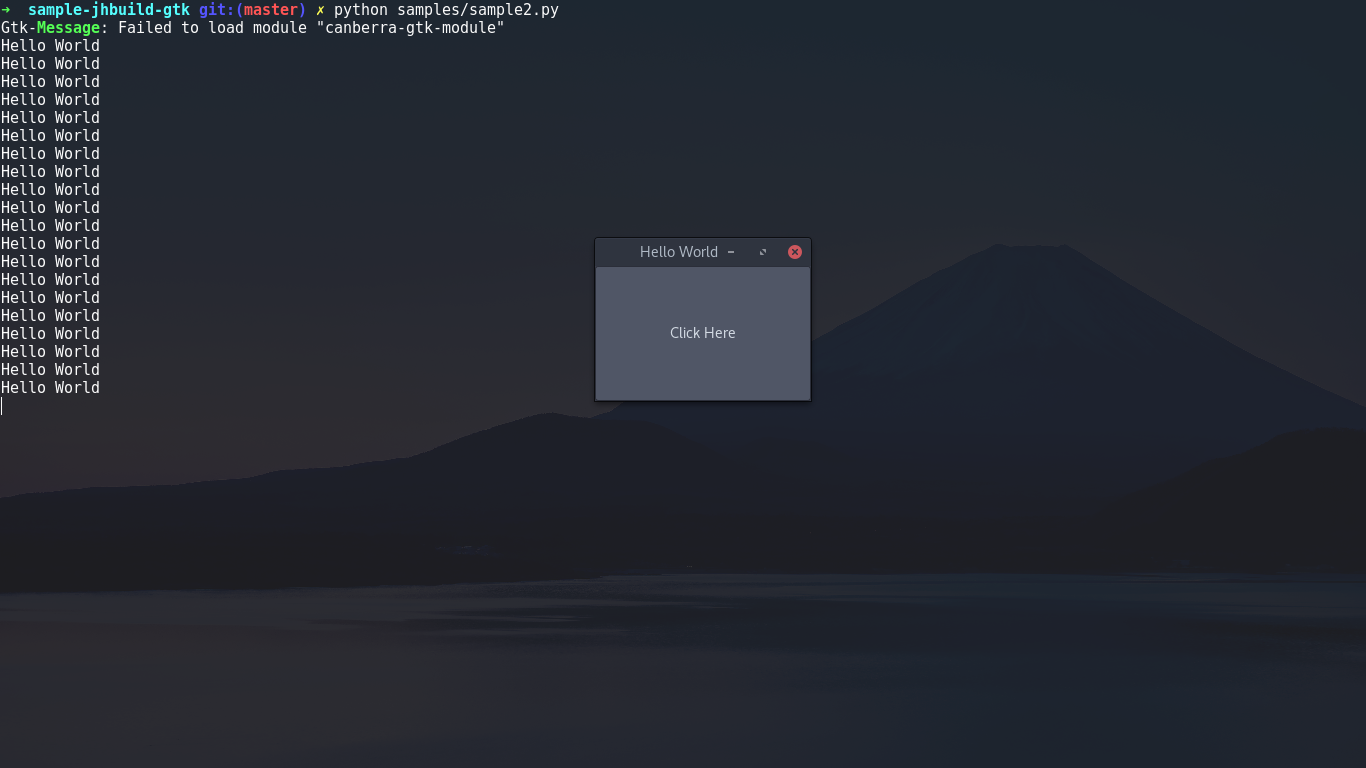
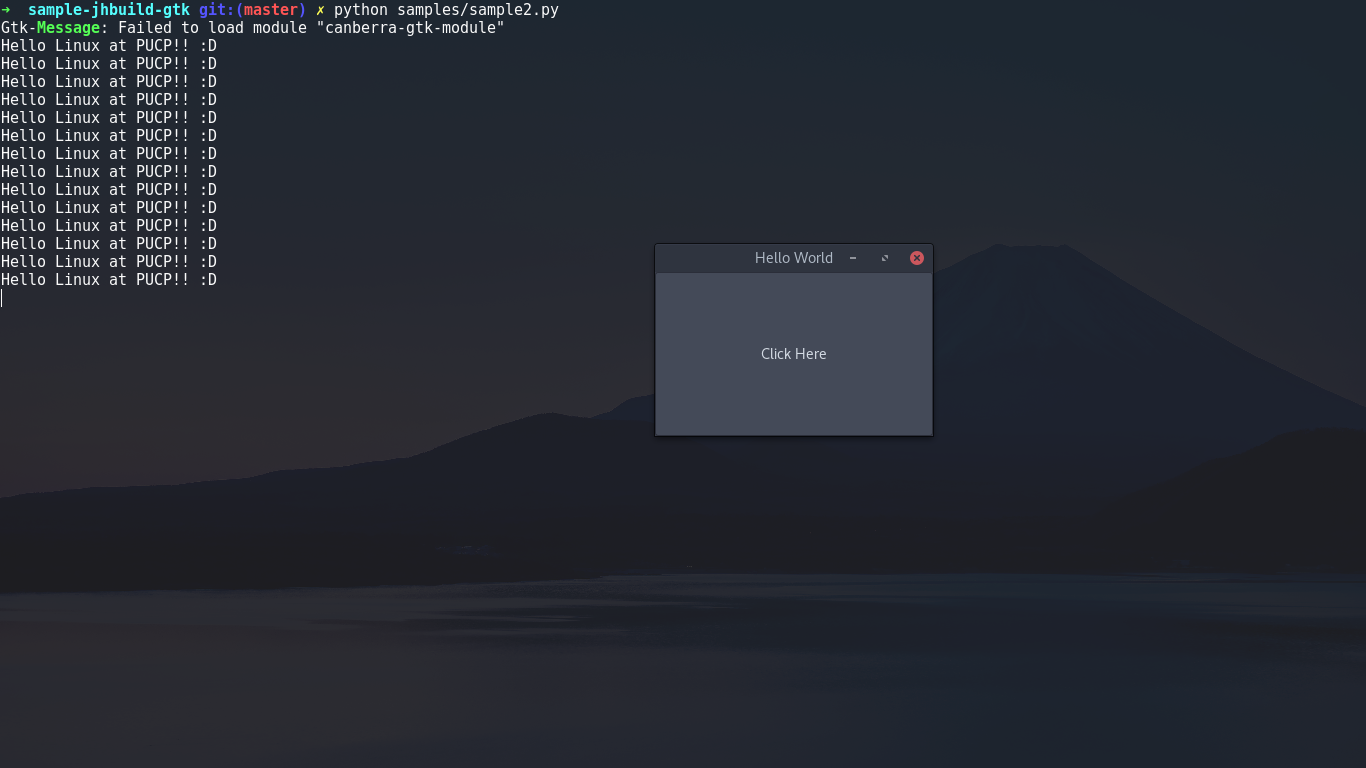
update readme :lollipop:

Changed region(s): [[0.4305, 0.3125, 0.7072, 0.5938], [0.0, 0.0312, 0.1537, 0.5312]]

diff --git a/samples/sample2.py b/samples/sample2.py
@@ -12,7 +12,7 @@ class HelloWorldWindow(Gtk.Window):
         self.add(self.button)
 
     def on_button_clicked(self, widget):
-        print("Hello World")
+        print("Hello Linux at PUCP!! :D")
 
 
 def main():

diff --git a/README.md b/README.md
@@ -3,6 +3,9 @@
 [![Preview](./banner.png)][1]
 [![MIT License][2]][1] [![Python][3]][1] [![jhbuild][4]][1] [![Gtk+][5]][1]
 
+
+Taller de jhbuild y gtk realizado en el evento [Linux at PUCP](http://www.linuxatuni.com/2017/linux-at-pucp) como parte de las preparaciones para el evento [Linux at playa](http://www.linuxatuni.com/2017/linux-at-playa)
+
 ## Guia de instalacion
 
 1. `cd ~`
